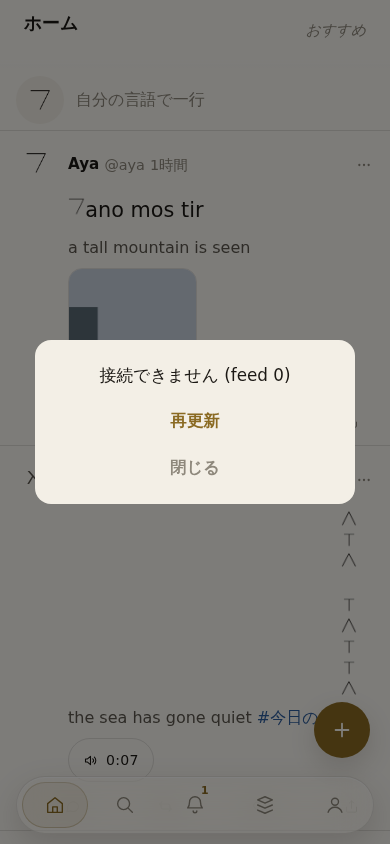
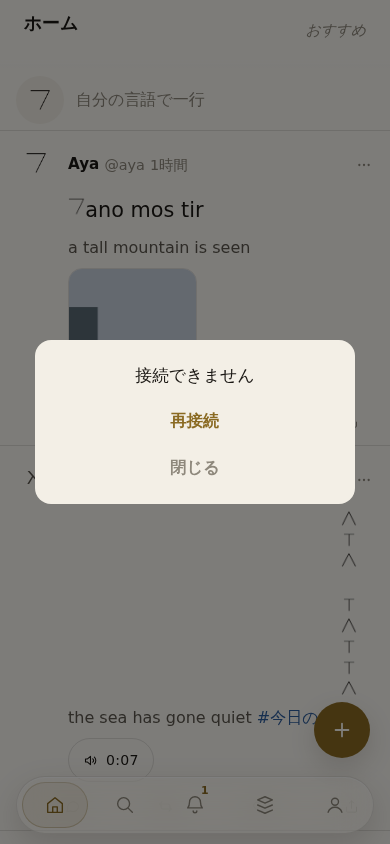
ポップは「接続できません」「再接続」「閉じる」だけ ── 印は出さない
「feed0ってなに？ 再接続か閉じるでしょ？」 OWNER 2026-09-05。

netWhy() が付ける印（`feed 0`）はスクリーンショット一枚で原因が落ちて
くるための状態で、人に読ませるものではなかった。ポップは net.offline の
一文だけを出す。ボタンは「再更新」から「再接続」へ、10言語ぶん。

shots/net-pop-ja.png

Claude-Session: https://claude.ai/code/session_01Av6eMcCpLGdwnZJ9iLWjMa

Changed region(s): [[0.2462, 0.4313, 0.7385, 0.4621], [0.4615, 0.4929, 0.5538, 0.5237]]

diff --git a/www/net.js b/www/net.js
@@ -384,8 +384,10 @@ function netWhy(d, status, mark){
         is the session ENDING (netResume() above signs the phone out and
         draws), not a network that is down.
 
-   netWhy() says what it was -- the app's one place for that -- so no second
-   sentence is invented here. `netWhy(null, 0, ...)` is 「接続できません」.
+   THE PERSON SEES TWO THINGS AND NO THIRD. 「feed0ってなに？ 再接続か閉じる
+   でしょ？」 OWNER 2026-09-05. netWhy() は印（`feed 0`）を付ける ── あれは
+   スクリーンショット一枚で原因が落ちてくるための状態で、人に読ませるもので
+   はない。ポップは `net.offline` の一文だけ。
 
    AND ONE FAILURE IS ONE POP. A launch fires six requests; six pops stacked
    on each other would be six people telling you the same thing. popOn() is
@@ -396,7 +398,7 @@ function netPop(d, s, m, again){
   if(s) return;
   if(mark.indexOf('−')>=0 || mark.indexOf('≠')>=0) return;
   if(popOn()) return;
-  popAsk(netWhy(d, s, m), again||null, t('net.again'), t('pop.no'));
+  popAsk(t('net.offline'), again||null, t('net.again'), t('pop.no'));
 }
 
 /* ---- coming and going --------------------------------------------------- */

diff --git a/www/i18n/ru.js b/www/i18n/ru.js
@@ -357,7 +357,7 @@ defLang('ru', (function(){
       "net.badhandle" : "ID — от 2 до 24 символов: a–z, 0–9 и _",
       "net.handle.taken" : "Этот ID уже занят.",
       "net.offline" : "Нет соединения.",
-      "net.again" : "Повторить",
+      "net.again" : "Переподключиться",
       "net.none" : "Ошибка соединения.<br>Подключитесь там, где хороший сигнал.",
       "net.failed" : "Не получилось.",
       "net.badlogin" : "Неверный адрес или пароль.",

diff --git a/www/i18n/ja.js b/www/i18n/ja.js
@@ -270,7 +270,7 @@ defLang('ja', (function(){
       "net.badhandle" : "IDは a-z 0-9 _ で2〜24文字です",
       "net.handle.taken" : "このIDは使われています",
       "net.offline" : "接続できません",
-      "net.again" : "再更新",
+      "net.again" : "再接続",
       "net.none" : "通信エラーです。<br>通信の良いところで接続してください",
       "net.failed" : "うまくいきませんでした",
       "net.badlogin" : "アドレスかパスワードが違います",

diff --git a/www/i18n/ko.js b/www/i18n/ko.js
@@ -533,7 +533,7 @@ defLang('ko', (function(){
       "net.badhandle" : "ID는 2~24자입니다: a–z, 0–9, _",
       "net.handle.taken" : "이미 사용 중인 ID입니다.",
       "net.offline" : "연결할 수 없습니다.",
-      "net.again" : "다시 시도",
+      "net.again" : "다시 연결",
       "net.none" : "통신 오류입니다.<br>신호가 좋은 곳에서 연결해 주세요.",
       "net.failed" : "되지 않았습니다.",
       "net.badlogin" : "주소나 비밀번호가 다릅니다.",

diff --git a/www/i18n/fr.js b/www/i18n/fr.js
@@ -402,7 +402,7 @@ defLang('fr', (function(){
       "net.badhandle" : "Un ID fait 2 à 24 caractères : a–z, 0–9 et _",
       "net.handle.taken" : "Cet ID est déjà pris.",
       "net.offline" : "Pas de connexion.",
-      "net.again" : "Réessayer",
+      "net.again" : "Reconnecter",
       "net.none" : "Erreur de connexion.<br>Connectez-vous là où le signal est bon.",
       "net.failed" : "Cela n’a pas marché.",
       "net.badlogin" : "Adresse ou mot de passe incorrect.",

diff --git a/www/i18n/de.js b/www/i18n/de.js
@@ -342,7 +342,7 @@ defLang('de', (function(){
       "net.badhandle" : "Eine ID hat 2–24 Zeichen: a–z, 0–9 und _",
       "net.handle.taken" : "Diese ID ist vergeben.",
       "net.offline" : "Keine Verbindung.",
-      "net.again" : "Erneut versuchen",
+      "net.again" : "Neu verbinden",
       "net.none" : "Verbindungsfehler.<br>Verbinde dich dort, wo das Signal gut ist.",
       "net.failed" : "Das hat nicht geklappt.",
       "net.badlogin" : "Adresse oder Passwort falsch.",

diff --git a/www/i18n/it.js b/www/i18n/it.js
@@ -354,7 +354,7 @@ defLang('it', (function(){
       "net.badhandle" : "Un ID ha da 2 a 24 caratteri: a–z, 0–9 e _",
       "net.handle.taken" : "Questo ID è già in uso.",
       "net.offline" : "Nessuna connessione.",
-      "net.again" : "Riprova",
+      "net.again" : "Riconnetti",
       "net.none" : "Errore di connessione.<br>Collegati dove il segnale è buono.",
       "net.failed" : "Non ha funzionato.",
       "net.badlogin" : "Indirizzo o password errati.",

diff --git a/www/i18n/es.js b/www/i18n/es.js
@@ -314,7 +314,7 @@ defLang('es', (function(){
       "net.badhandle" : "Un ID tiene de 2 a 24 caracteres: a–z, 0–9 y _",
       "net.handle.taken" : "Ese ID ya está en uso.",
       "net.offline" : "Sin conexión.",
-      "net.again" : "Reintentar",
+      "net.again" : "Reconectar",
       "net.none" : "Error de conexión.<br>Conéctate donde haya buena señal.",
       "net.failed" : "No funcionó.",
       "net.badlogin" : "Correo o contraseña incorrectos.",

diff --git a/www/i18n/pt.js b/www/i18n/pt.js
@@ -361,7 +361,7 @@ defLang('pt', (function(){
       "net.badhandle" : "Um ID tem de 2 a 24 caracteres: a–z, 0–9 e _",
       "net.handle.taken" : "Esse ID já está em uso.",
       "net.offline" : "Sem conexão.",
-      "net.again" : "Tentar de novo",
+      "net.again" : "Reconectar",
       "net.none" : "Erro de conexão.<br>Conecte-se onde o sinal for bom.",
       "net.failed" : "Não funcionou.",
       "net.badlogin" : "E-mail ou senha incorretos.",

diff --git a/www/i18n/zh.js b/www/i18n/zh.js
@@ -362,7 +362,7 @@ defLang('zh', (function(){
       "net.badhandle" : "ID 为 2–24 个字符：a–z、0–9 和 _",
       "net.handle.taken" : "该 ID 已被使用。",
       "net.offline" : "无法连接。",
-      "net.again" : "重新加载",
+      "net.again" : "重新连接",
       "net.none" : "连接错误。<br>请在信号良好的地方连接。",
       "net.failed" : "没有成功。",
       "net.badlogin" : "邮箱或密码不对。",

diff --git a/www/i18n/en.js b/www/i18n/en.js
@@ -254,7 +254,7 @@ defLang('en', (function(){
       "net.badhandle" : "An ID is 2–24 characters: a–z, 0–9 and _",
       "net.handle.taken" : "That ID is taken.",
       "net.offline" : "No connection.",
-      "net.again" : "Try again",
+      "net.again" : "Reconnect",
       "net.none" : "Connection error.<br>Connect where the signal is good.",
       "net.failed" : "That did not work.",
       "net.badlogin" : "Wrong address or password.",
